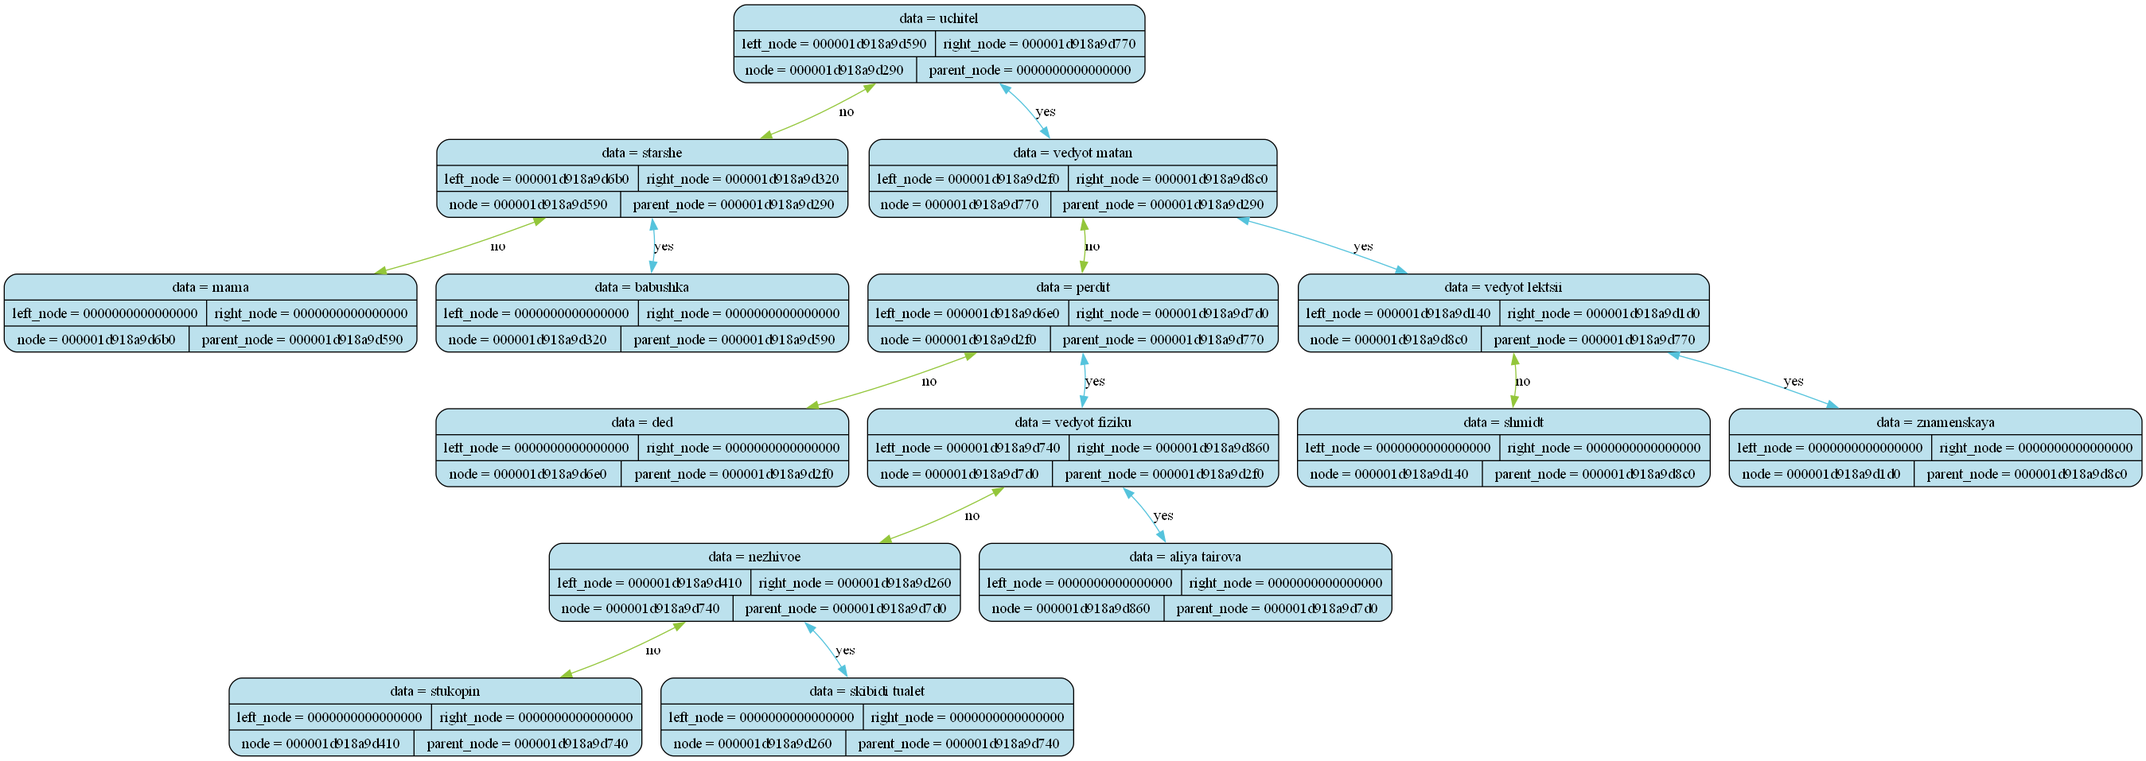
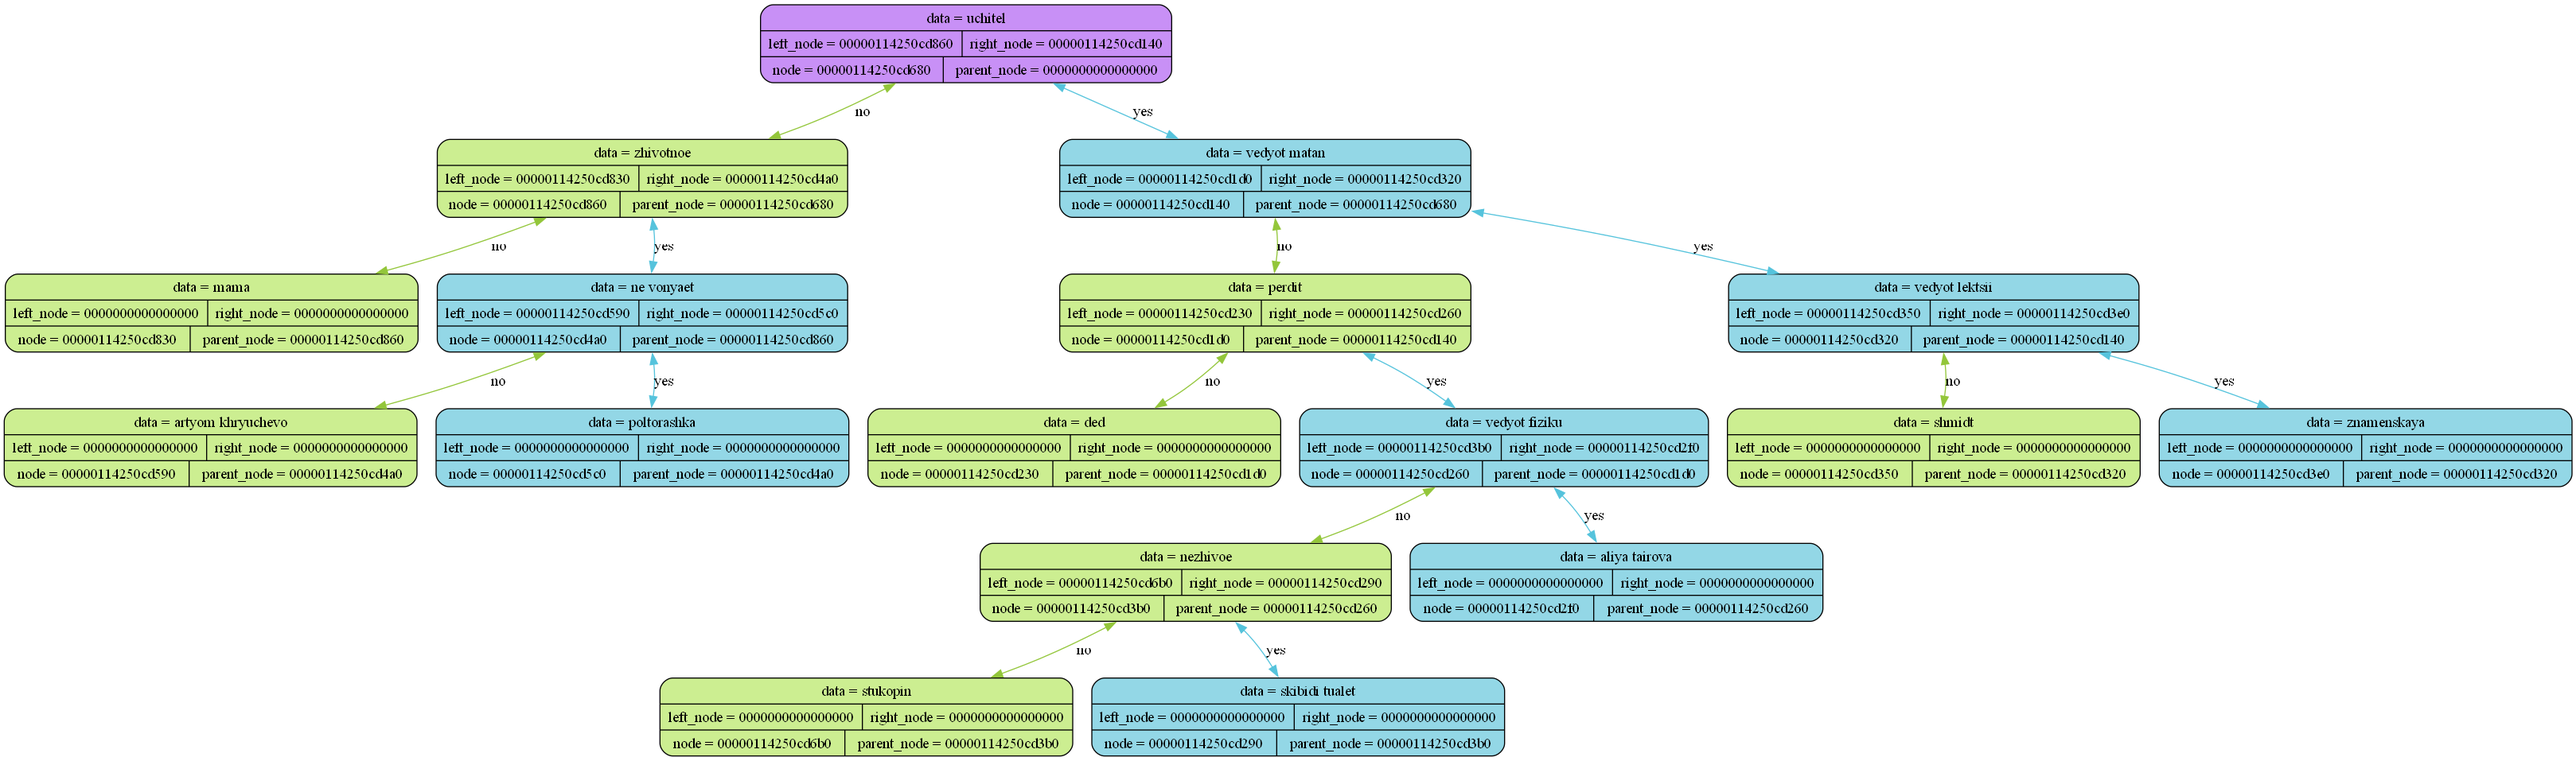
new show tree color

diff --git a/cpp_files/show_tree.cpp b/cpp_files/show_tree.cpp
@@ -25,7 +25,7 @@ void fwrite_graph_dump(const tree_t* tree)
     fprintf_invis_edges(graph_file, tree, tree -> tree_root, &depth);
     fprintf(graph_file, "node [shape = doubleoctagon, fontsize = 28, fontname = \"Helvetica-Bold\", style = \"bold\", style = filled, fontcolor = \"#FFFF00\", fillcolor = \"#ff0000\"]\n");
     size_t visited_nodes = 0;
-    fprintf_nodes(graph_file, &visited_nodes, tree -> tree_root);
+    fprintf_nodes(graph_file, &visited_nodes, tree -> tree_root, "#c890f6");
 
     fprintf(graph_file, "}\n");
     fclose(graph_file);
@@ -74,21 +74,21 @@ void fprintf_invis_edges(FILE* file, const tree_t* tree, tree_node_t* current_no
 
 }
 
-void fprintf_nodes(FILE* file, size_t* visited_nodes, tree_node_t* current_node)
+void fprintf_nodes(FILE* file, size_t* visited_nodes, tree_node_t* current_node, const char* fill_color)
 {
-    fprintf_node(file, current_node, "#000000", "#000000", "#bce1ed");
+    fprintf_node(file, current_node, "#000000", "#000000", fill_color);
     (*visited_nodes)++;
 
     if (current_node -> right_node)
     {
         fprintf_edge(file, current_node, current_node -> right_node, "dir = both", "#55c3dc", 1.0, "yes");
-        fprintf_nodes(file, visited_nodes, current_node -> right_node);
+        fprintf_nodes(file, visited_nodes, current_node -> right_node, "#93d7e6");
     }
 
     if (current_node -> left_node)
     {
         fprintf_edge(file, current_node, current_node -> left_node, "dir = both", "#93c63a", 1.0, "no");
-        fprintf_nodes(file, visited_nodes, current_node -> left_node);
+        fprintf_nodes(file, visited_nodes, current_node -> left_node, "#ccee91");
     }
 
     fflush(file);

diff --git a/h_files/show_tree.h b/h_files/show_tree.h
@@ -1,7 +1,7 @@
 #include "error_codes.h"
 
 void fwrite_graph_dump(const tree_t* tree);
-void fprintf_nodes(FILE* file, size_t* visited_nodes, tree_node_t* current_node);
+void fprintf_nodes(FILE* file, size_t* visited_nodes, tree_node_t* current_node, const char* fill_color);
 void fprintf_edge(FILE* file, tree_node_t* current_node, tree_node_t* linked_node,
                       const char* line_status, const char* edge_color, double penwidth, const char* label);
 void fprintf_node(FILE* file, tree_node_t* current_node, const char* label_color,

diff --git a/README/README.md b/README/README.md
@@ -143,7 +143,7 @@ If he doesn't guess, you suggest him to add the object in question.
 > To show image of graphviz picture Windows will automatically find the application associated with the   .png extension and launch it.
 
 **Example of show tree mode**
-![alt text](image.png)
+![alt text](image-2.png)
 
 > [!IMPORTANT]
 > Since our program uses txSpeak — which will be discussed further on — all files are encoded in 1251. This encoding is compatible with TXlib, but not with Graphviz. Therefore, we write the content for the Graphviz file using transliteration.
